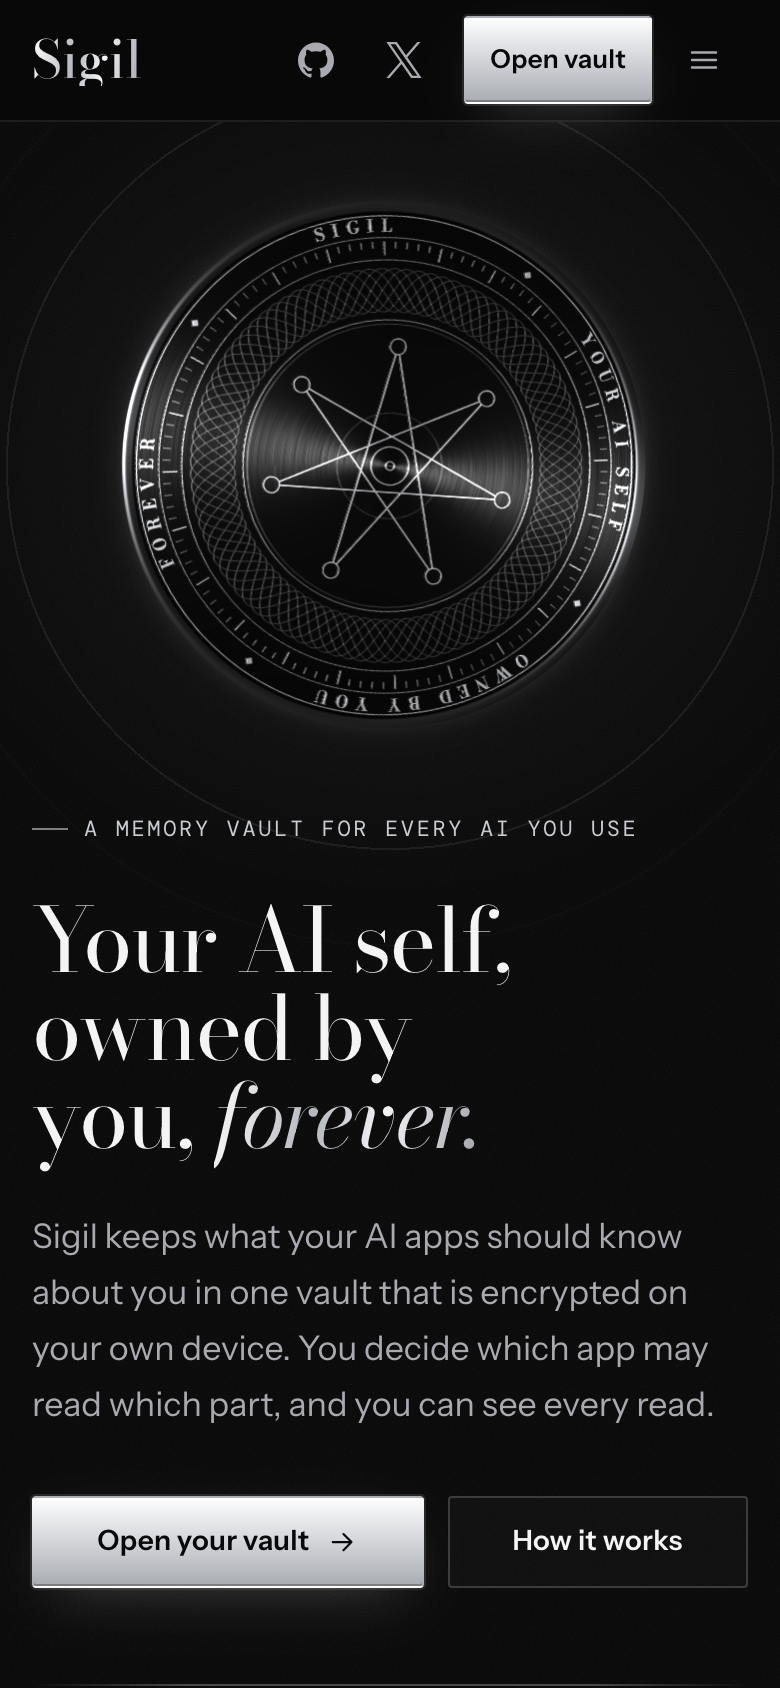
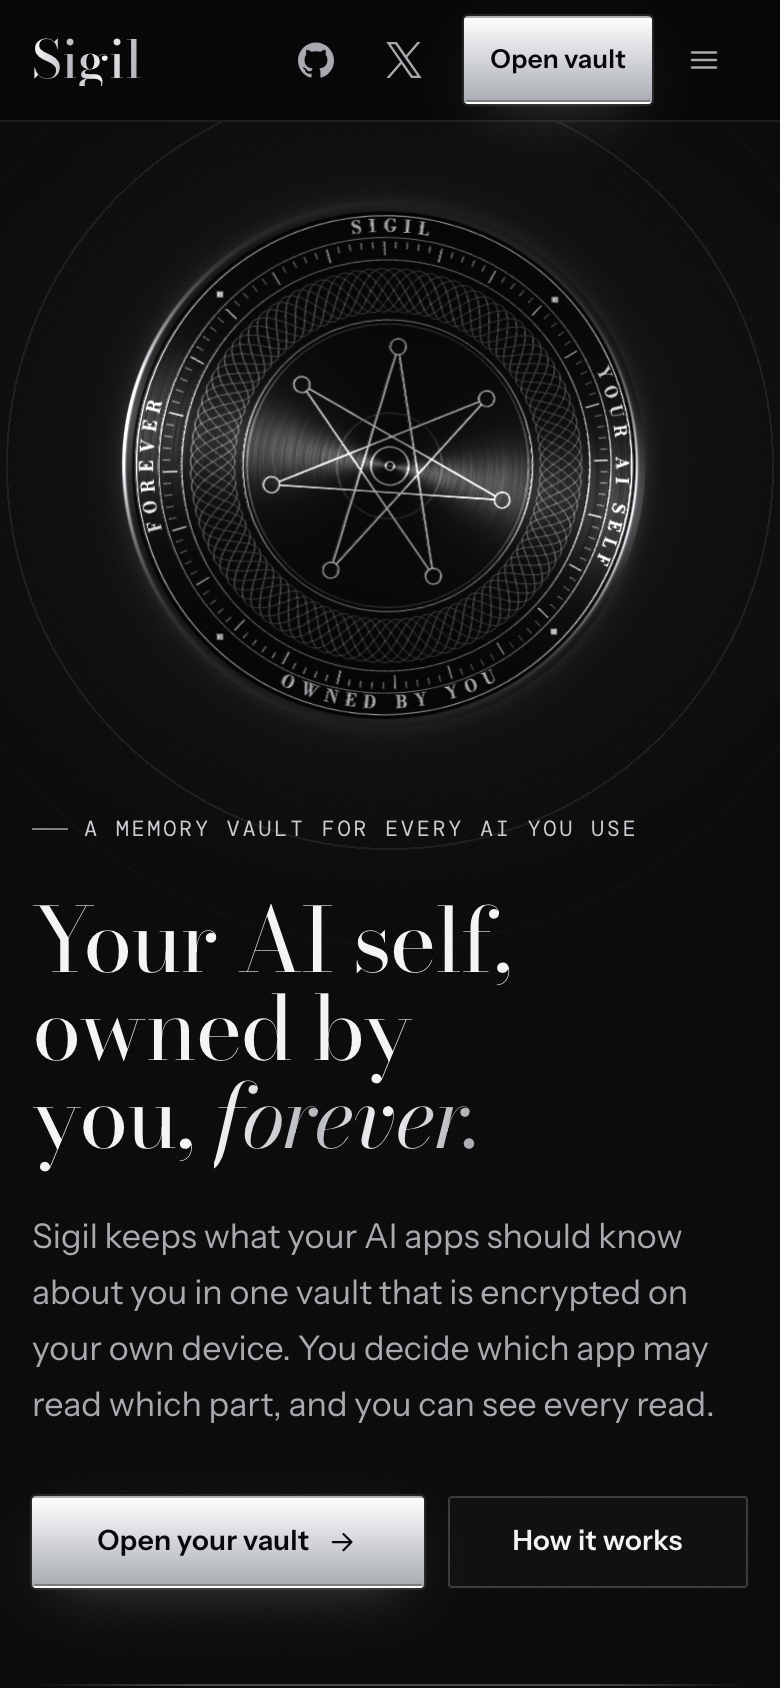
Hero seal: bottom legend reads upright, legend rests in place

diff --git a/web/src/components/SealMark.tsx b/web/src/components/SealMark.tsx
@@ -126,16 +126,19 @@ function buildArt(size: number, fontFamily: string): Art | null {
     const widths = chars.map((ch) => mask.measureText(ch).width + tracking);
     const total = widths.reduce((a, b) => a + b, 0);
     const centre = (k / LEGEND.length) * Math.PI * 2;
-    let at = centre - total / (legendR * U) / 2;
+    // The phrase at the foot of the seal is set inside the arc, so it reads upright, left to right.
+    const foot = Math.cos(centre) < -0.5;
+    const dir = foot ? -1 : 1;
+    let at = centre - (dir * total) / (legendR * U) / 2;
     chars.forEach((ch, i) => {
-      const a = at + widths[i] / (legendR * U) / 2;
-      at += widths[i] / (legendR * U);
+      const a = at + (dir * widths[i]) / (legendR * U) / 2;
+      at += (dir * widths[i]) / (legendR * U);
       const turn = a / (Math.PI * 2);
       const o = 0.08 + 0.42 * (((turn % 1) + 1) % 1);
       for (const ctx of [mask, order]) {
         ctx.save();
         ctx.translate(C + legendR * U * Math.sin(a), C - legendR * U * Math.cos(a));
-        ctx.rotate(a);
+        ctx.rotate(foot ? a + Math.PI : a);
         if (ctx === mask) {
           ctx.fillStyle = grey(1);
           ctx.fillText(ch, 0, fontPx * 0.04);
@@ -295,12 +298,13 @@ void main() {
   vec3 V = vec3(dot(-dir, ex), dot(-dir, ey), dot(-dir, n));
   vec3 H = normalize(L + V);
 
-  // Each band turns at its own pace, and turns into place while it is cut.
+  // Each band turns into place while it is cut. The legend then rests, so it stays readable;
+  // the inner bands keep turning at their own pace.
   float settle = 1.0 - smoothstep(0.0, 1.0, uProgress);
   settle = settle * settle;
   float ang;
   float tone;
-  if (r > 0.862) { ang = 0.016 * uTime + 0.9 * settle; tone = 1.0; }
+  if (r > 0.862) { ang = 0.9 * settle; tone = 1.0; }
   else if (r > 0.778) { ang = -0.024 * uTime - 1.3 * settle; tone = 0.72; }
   else if (r > 0.544) { ang = 0.011 * uTime + 0.7 * settle; tone = 0.5; }
   else { ang = -0.007 * uTime - 0.5 * settle; tone = 0.86; }

diff --git a/docs/DESIGN-BRIEF.md b/docs/DESIGN-BRIEF.md
@@ -98,7 +98,7 @@ All files in `web/src/vault/`. The wrapper is `.vault[data-phase]` with phases `
 
 - **Direction:** black, silver and white. Hairlines, the double ring of a seal around icons and numbers, a small diamond as the mark between things, and brushed metal only on the primary button, the selected tab or switch and the built stages of the roadmap.
 - **Fonts (self-hosted in `web/src/fonts`, loaded with `next/font/local` in `app/layout.tsx`):** Bodoni Moda for display (`--font-display`, with `--display-cut` setting a sturdier optical size), Instrument Sans for text (`--font-sans`), DM Mono for labels, numbers and code (`--font-mono`). All three are under the SIL Open Font License; the licence texts sit next to the files.
-- **Hero motion:** `components/SealMark.tsx`. The seal is drawn once on a 2D canvas (rings, the legend, 120 hour marks, a woven band, the seven-pointed mark) and used as a height map in one small WebGL shader: a dark brushed disc, lines cut in order over about seven seconds, then a slow lean, a moving light and bands that turn at their own pace. Capped at 30 frames a second, paused off screen and in hidden tabs, one finished frame with reduced motion, and the still SVG when WebGL is missing.
+- **Hero motion:** `components/SealMark.tsx`. The seal is drawn once on a 2D canvas (rings, the legend, 120 hour marks, a woven band, the seven-pointed mark) and used as a height map in one small WebGL shader: a dark brushed disc, lines cut in order over about seven seconds, then a slow lean, a moving light and inner bands that turn at their own pace while the legend rests upright. Capped at 30 frames a second, paused off screen and in hidden tabs, one finished frame with reduced motion, and the still SVG when WebGL is missing.
 - **Other motion:** sections rise as they scroll in (only where scroll-driven animations exist), seal rows come in one after another, the Sealed badge stamps in, the primary button has a sheen on hover. All of it is off with reduced motion.
 - **Share image:** `app/opengraph-image.png` and `app/twitter-image.png` (1200 by 630), a still of the finished hero.
 - **States without colour:** errors and confirmations are white on a lighter plate with an icon and a plain label ("Error", "Done"); waiting and revoked states use dashed outlines; allowed and sealed states use a filled mark.
